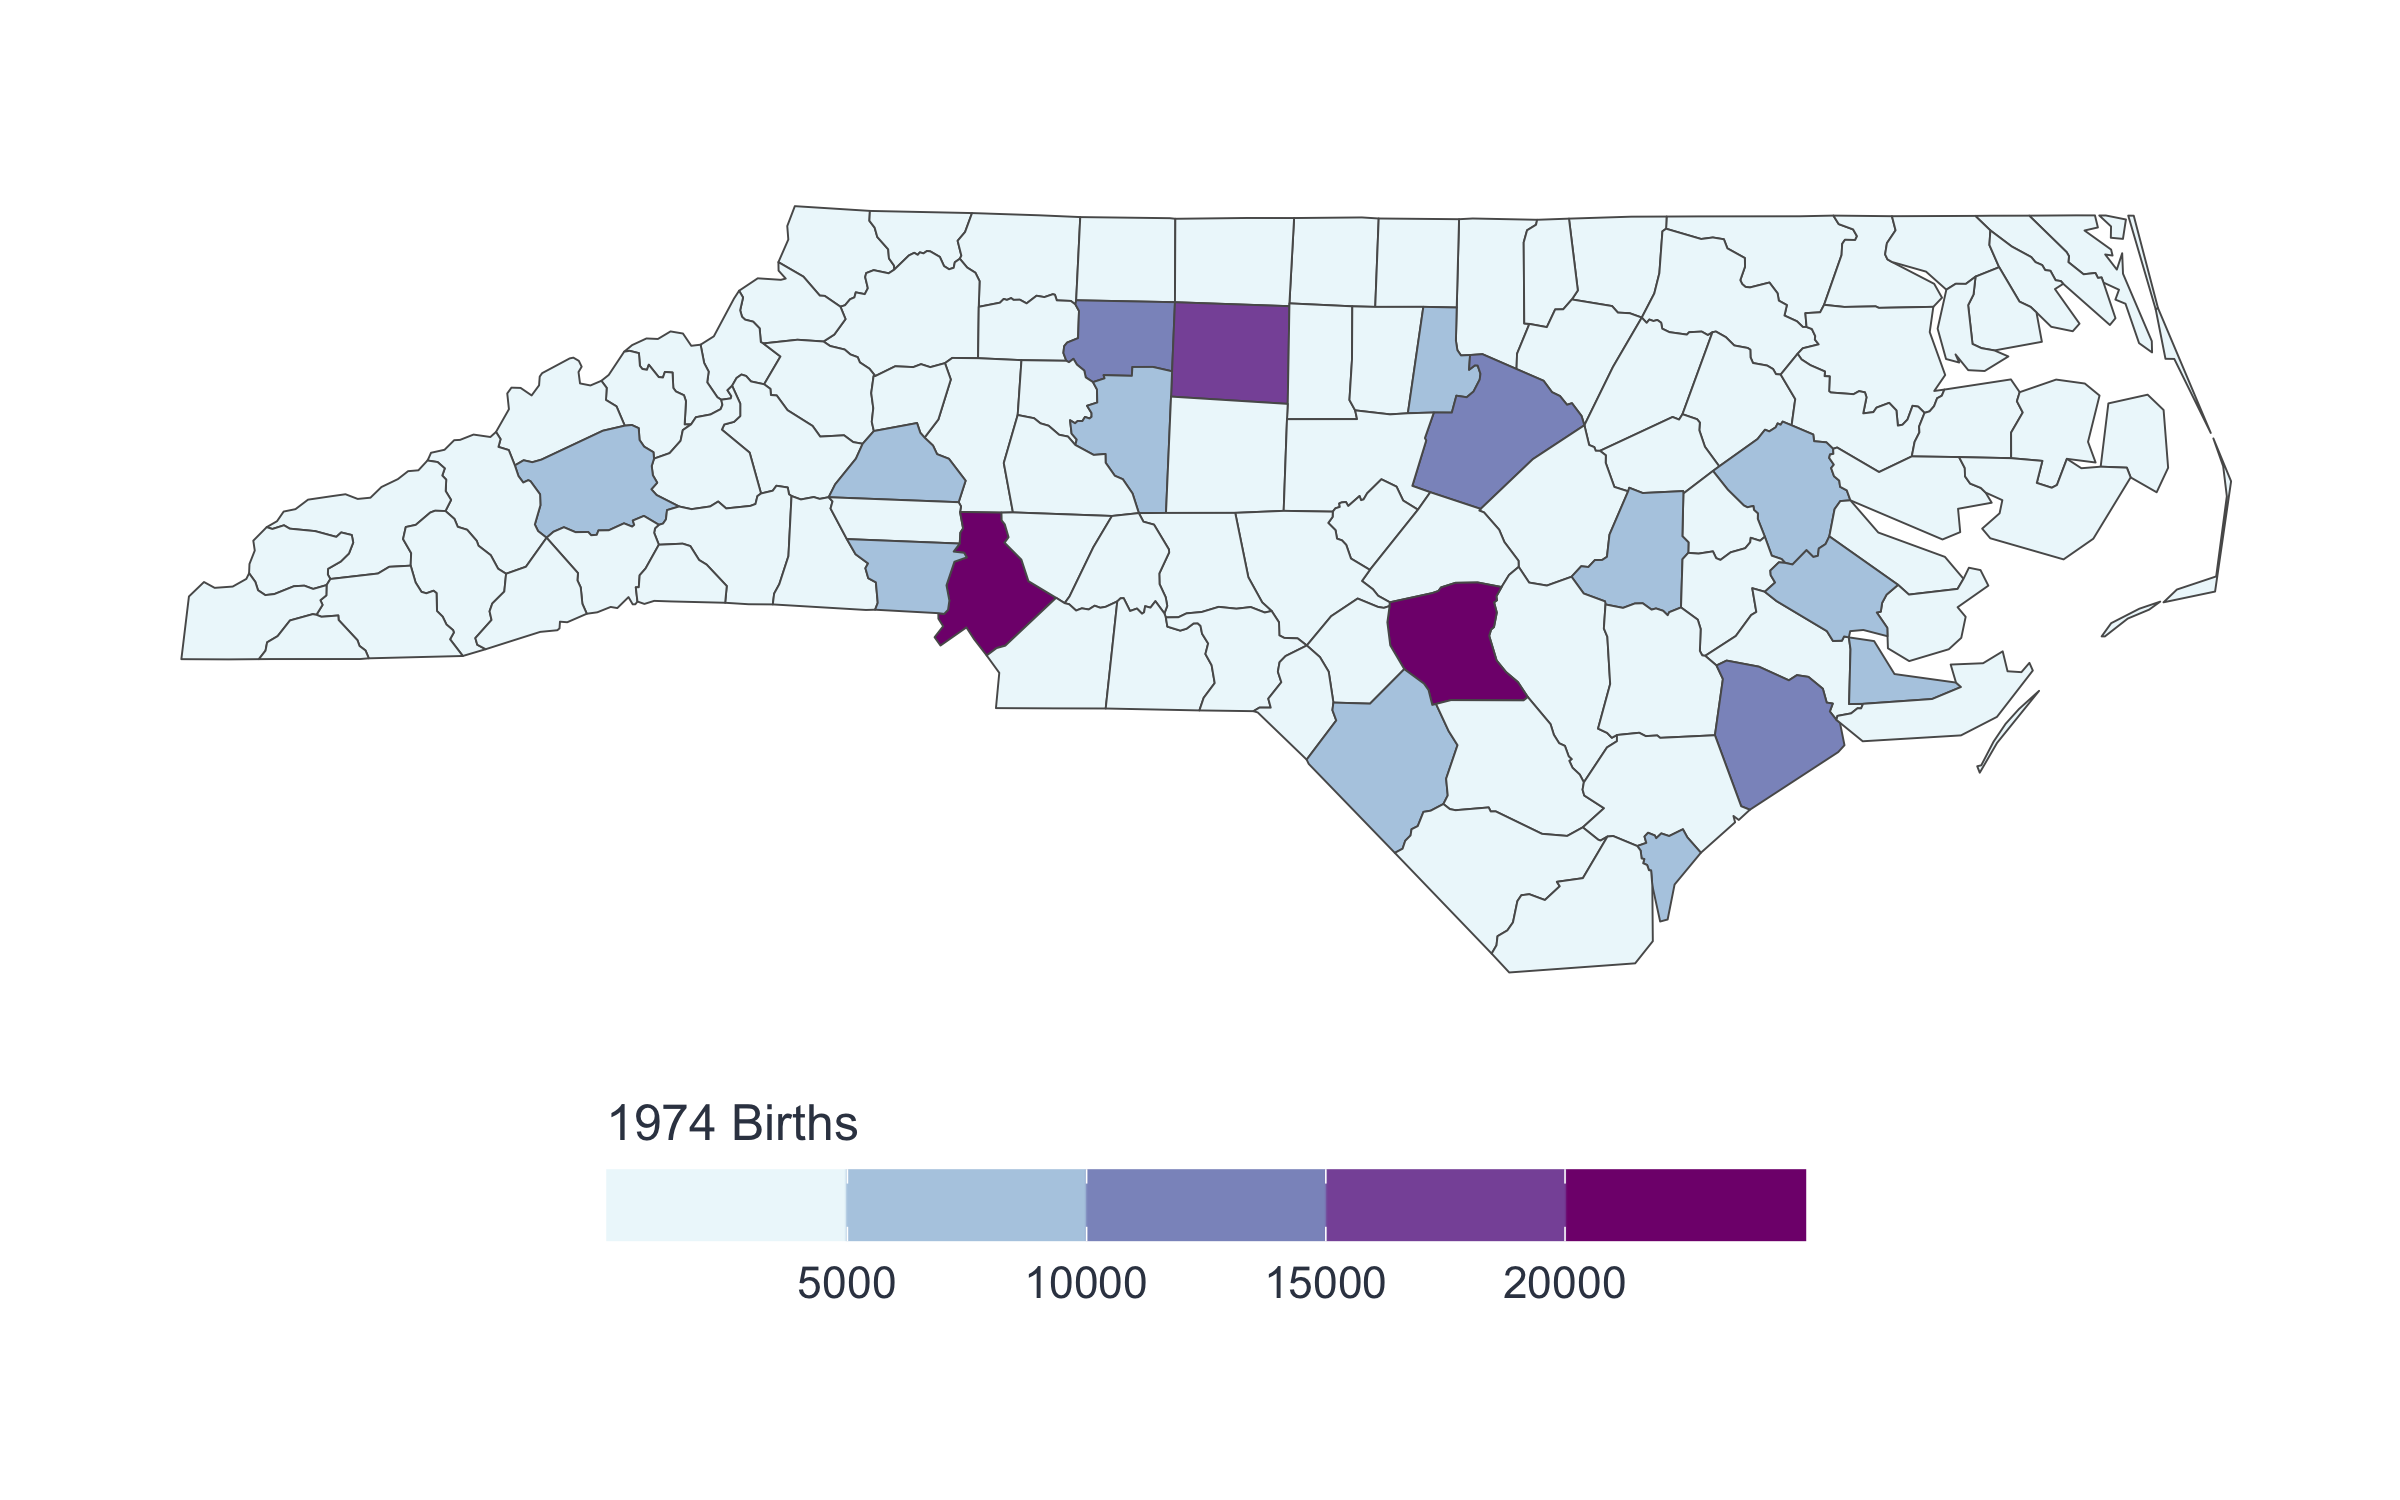
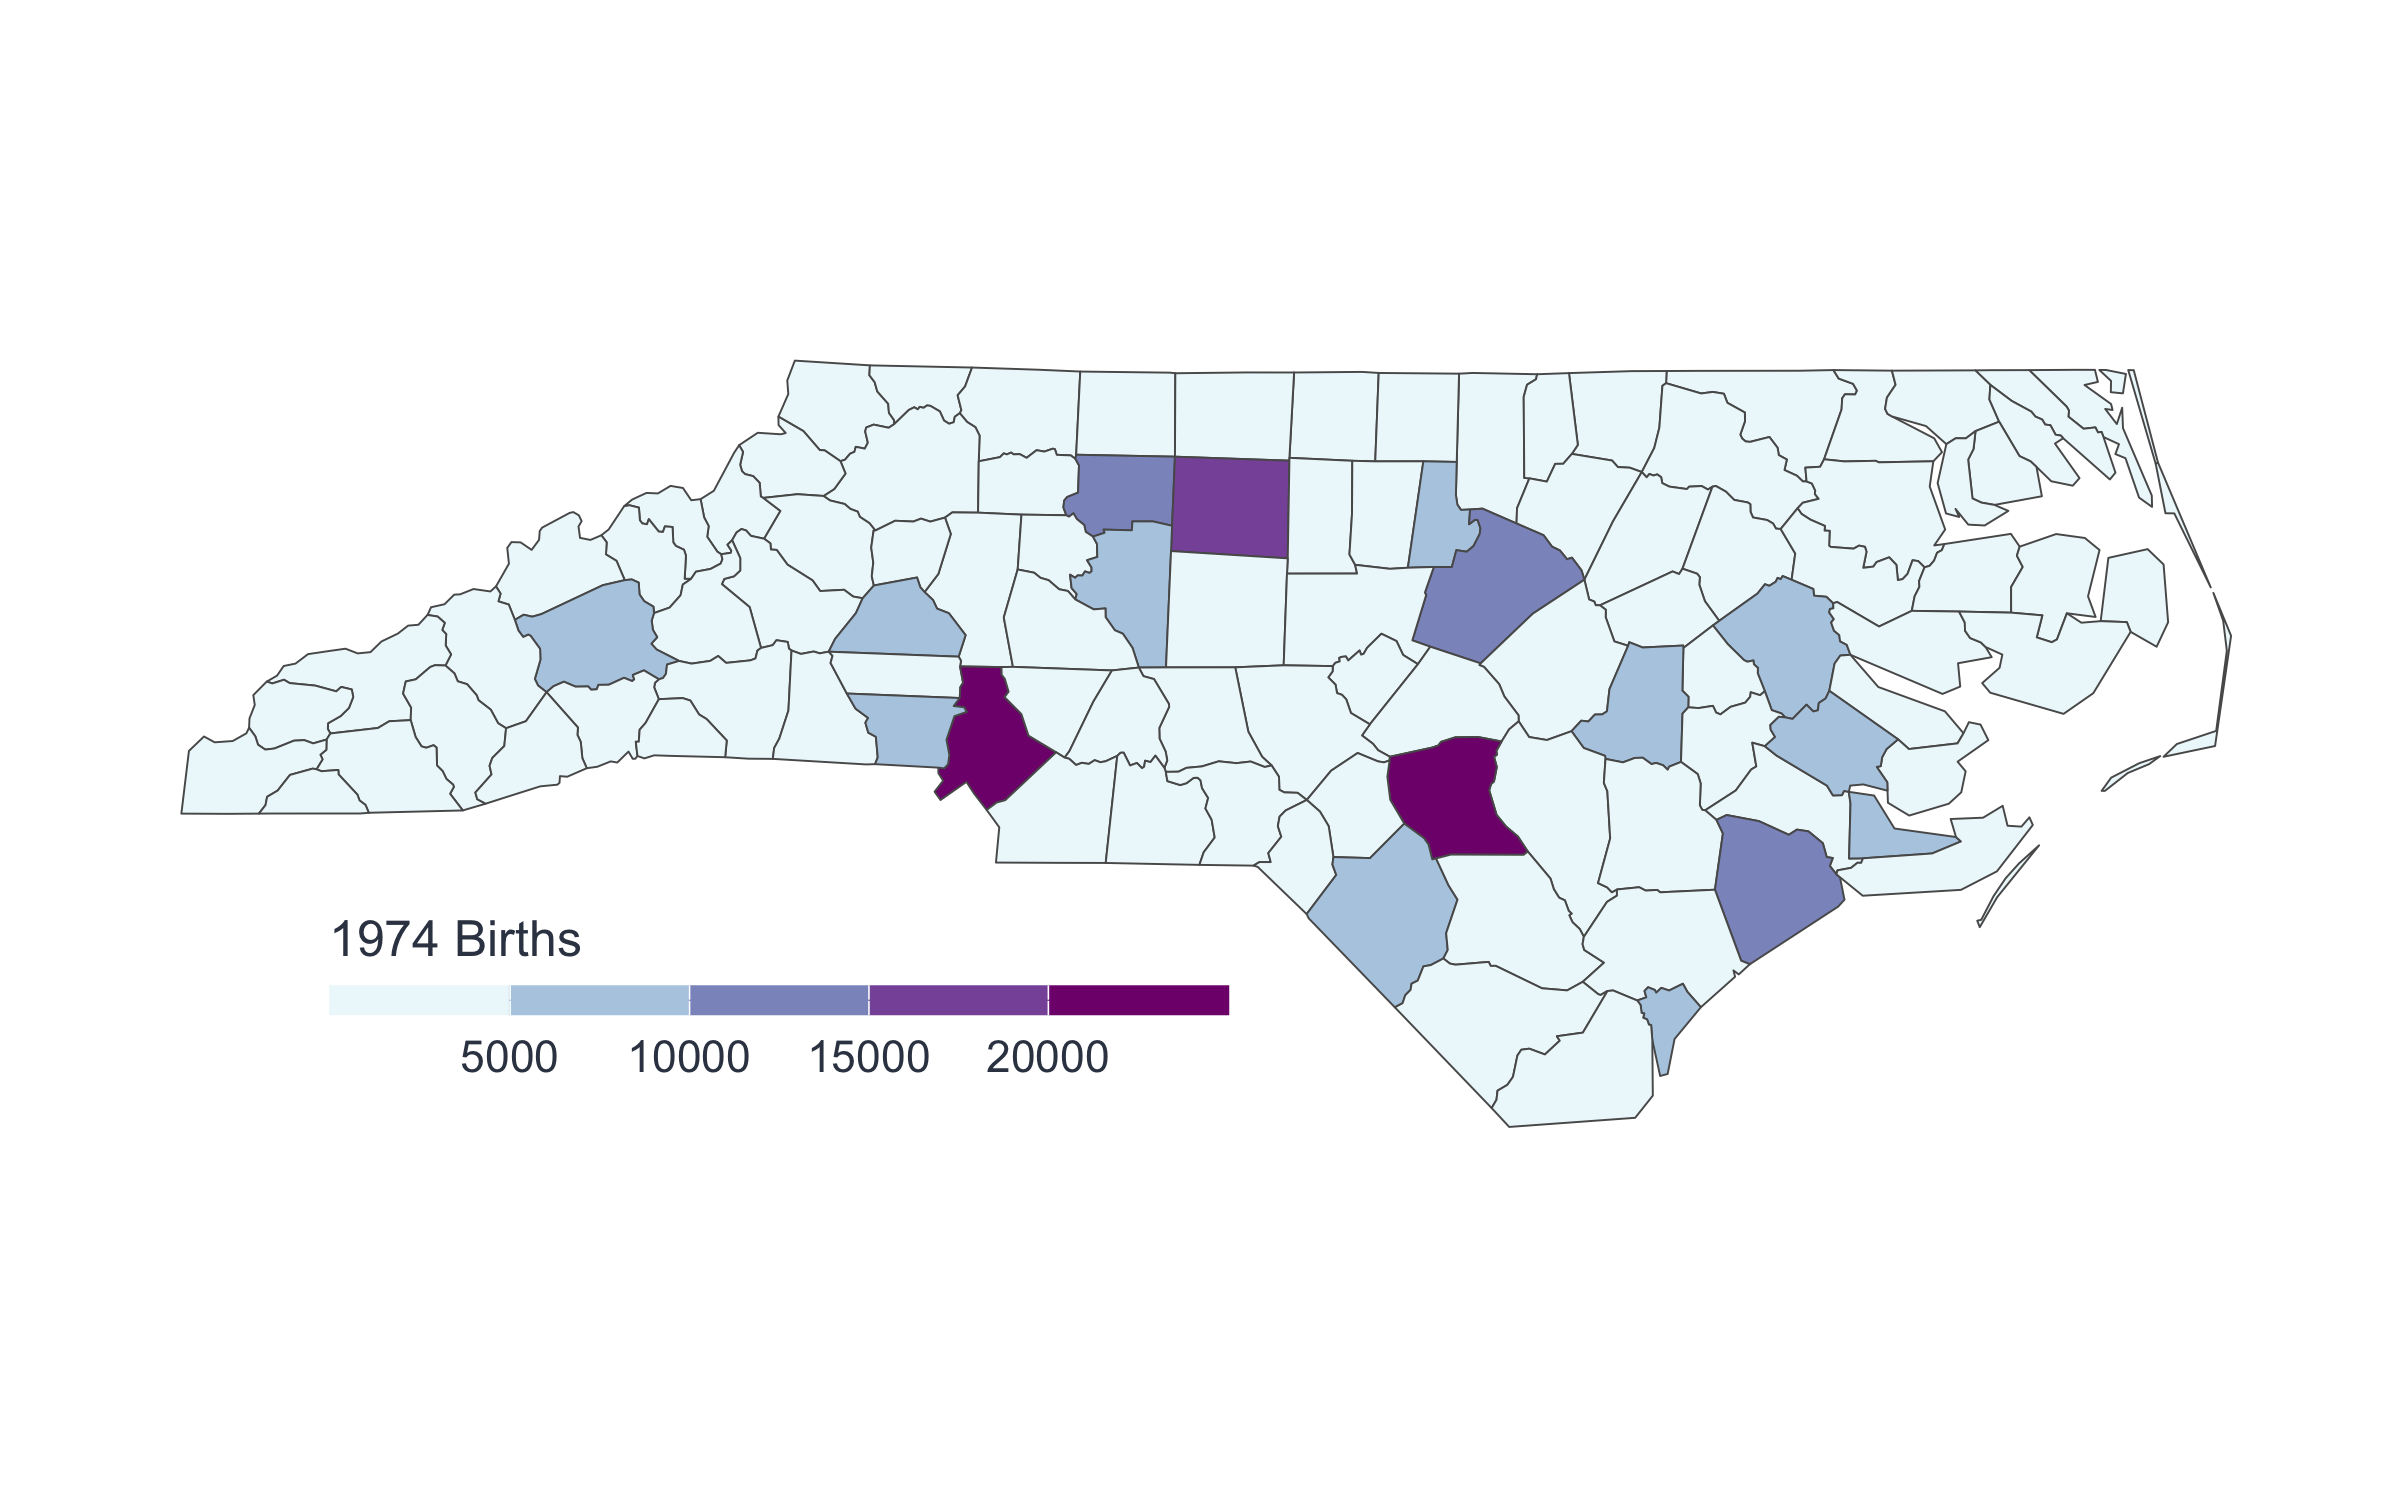
Update README

diff --git a/man/figures/README-penguins.tex b/man/figures/README-penguins.tex
@@ -1,4 +1,4 @@
-% Created by tikzDevice version 0.12.6 on 2024-09-18 10:18:48
+% Created by tikzDevice version 0.12.6 on 2024-09-18 12:22:37
 % !TEX encoding = UTF-8 Unicode
 \begin{tikzpicture}[x=1pt,y=1pt]
 \definecolor{fillColor}{RGB}{255,255,255}

diff --git a/README.md b/README.md
@@ -59,6 +59,7 @@ ggplot(penguins) +
 
 ``` r
 library(sf)
+#> Warning: package 'sf' was built under R version 4.4.1
 #> Linking to GEOS 3.11.0, GDAL 3.5.3, PROJ 9.1.0; sf_use_s2() is TRUE
 nc <- st_read(system.file("shape/nc.shp", package="sf"), quiet = TRUE)
 
@@ -66,17 +67,18 @@ ggplot(nc) +
   geom_sf(aes(fill = BIR74)) +
   scale_fill_fermenter(
     direction = 1, palette = 3,
-    guide = guide_colorbar()
+    guide = guide_colorbar(direction = "horizontal")
   ) + 
   labs(fill = "1974 Births") +
-  theme_kyle(
-    base_size = 12,
-  ) + 
+  theme_kyle(base_size = 12) + 
   theme_map() +
   theme(
-    legend.position = "bottom",
+    legend.position = "inside",
+    legend.position.inside = c(0.1, 0.07),
+    legend.justification = c(0, 0),
     legend.title.position = "top",
-    legend.key.width = unit(4, "lines")
+    legend.key.width = unit(3, "lines"),
+    legend.key.height = unit(0.5, "lines")
   )
 ```
 
@@ -135,10 +137,3 @@ Facets](https://github.com/kylebutts/kfbmisc/blob/master/gallery/scatter-chart-f
 [Stacked Column
 Chart](https://github.com/kylebutts/kfbmisc/blob/master/gallery/stacked-column-chart.R)
 <img src="gallery/figures/stacked-column-chart.png" width="100%" />
-
-[Map](https://github.com/kylebutts/kfbmisc/blob/master/gallery/map.R)
-<img src="gallery/figures/map.png" width="100%" />
-
-[Facet
-Map](https://github.com/kylebutts/kfbmisc/blob/master/gallery/map.R)
-<img src="gallery/figures/facet_map.png" width="100%" />
